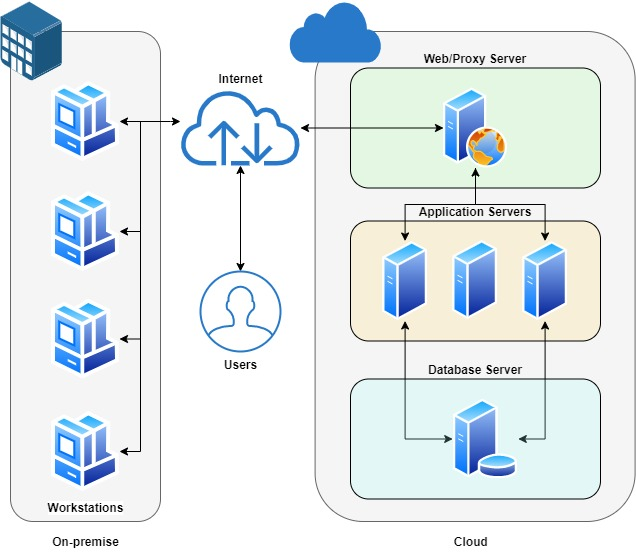
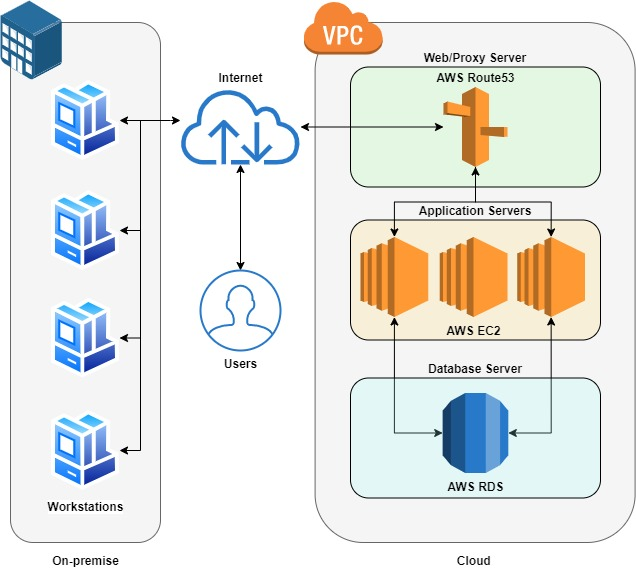
updated

diff --git a/demystifying-cloud/PITCHME.md b/demystifying-cloud/PITCHME.md
@@ -12,7 +12,12 @@
 - @size[32px](Cloud providers)
 ---
 ### On-premise Computing
-Traditional Web Application 
+- @size[32px](Traditional method of running applications and back-end systems.)
+- @size[32px](Majority of systems are still on-premise.)
+- @size[32px](Typically run by an on-site team.)
++++
+### Traditional Web Application 
+Consists of:
 @ul
 - @size[32px](Webserver / Proxy server)
 - @size[32px](Application server)
@@ -58,7 +63,7 @@ Note:
 - Instead of buying and setting up servers on-premise, simply request on-demand resources from cloud providers over the internet.
 - There is a variety of different cloud models that offer different aspects of the cloud.
 +++
-### Cloud Web Application
+### Cloud Web Application (AWS)
 ![Cloud Web App](demystifying-cloud/cloud.jpg)
 +++
 ### Cloud Computing
